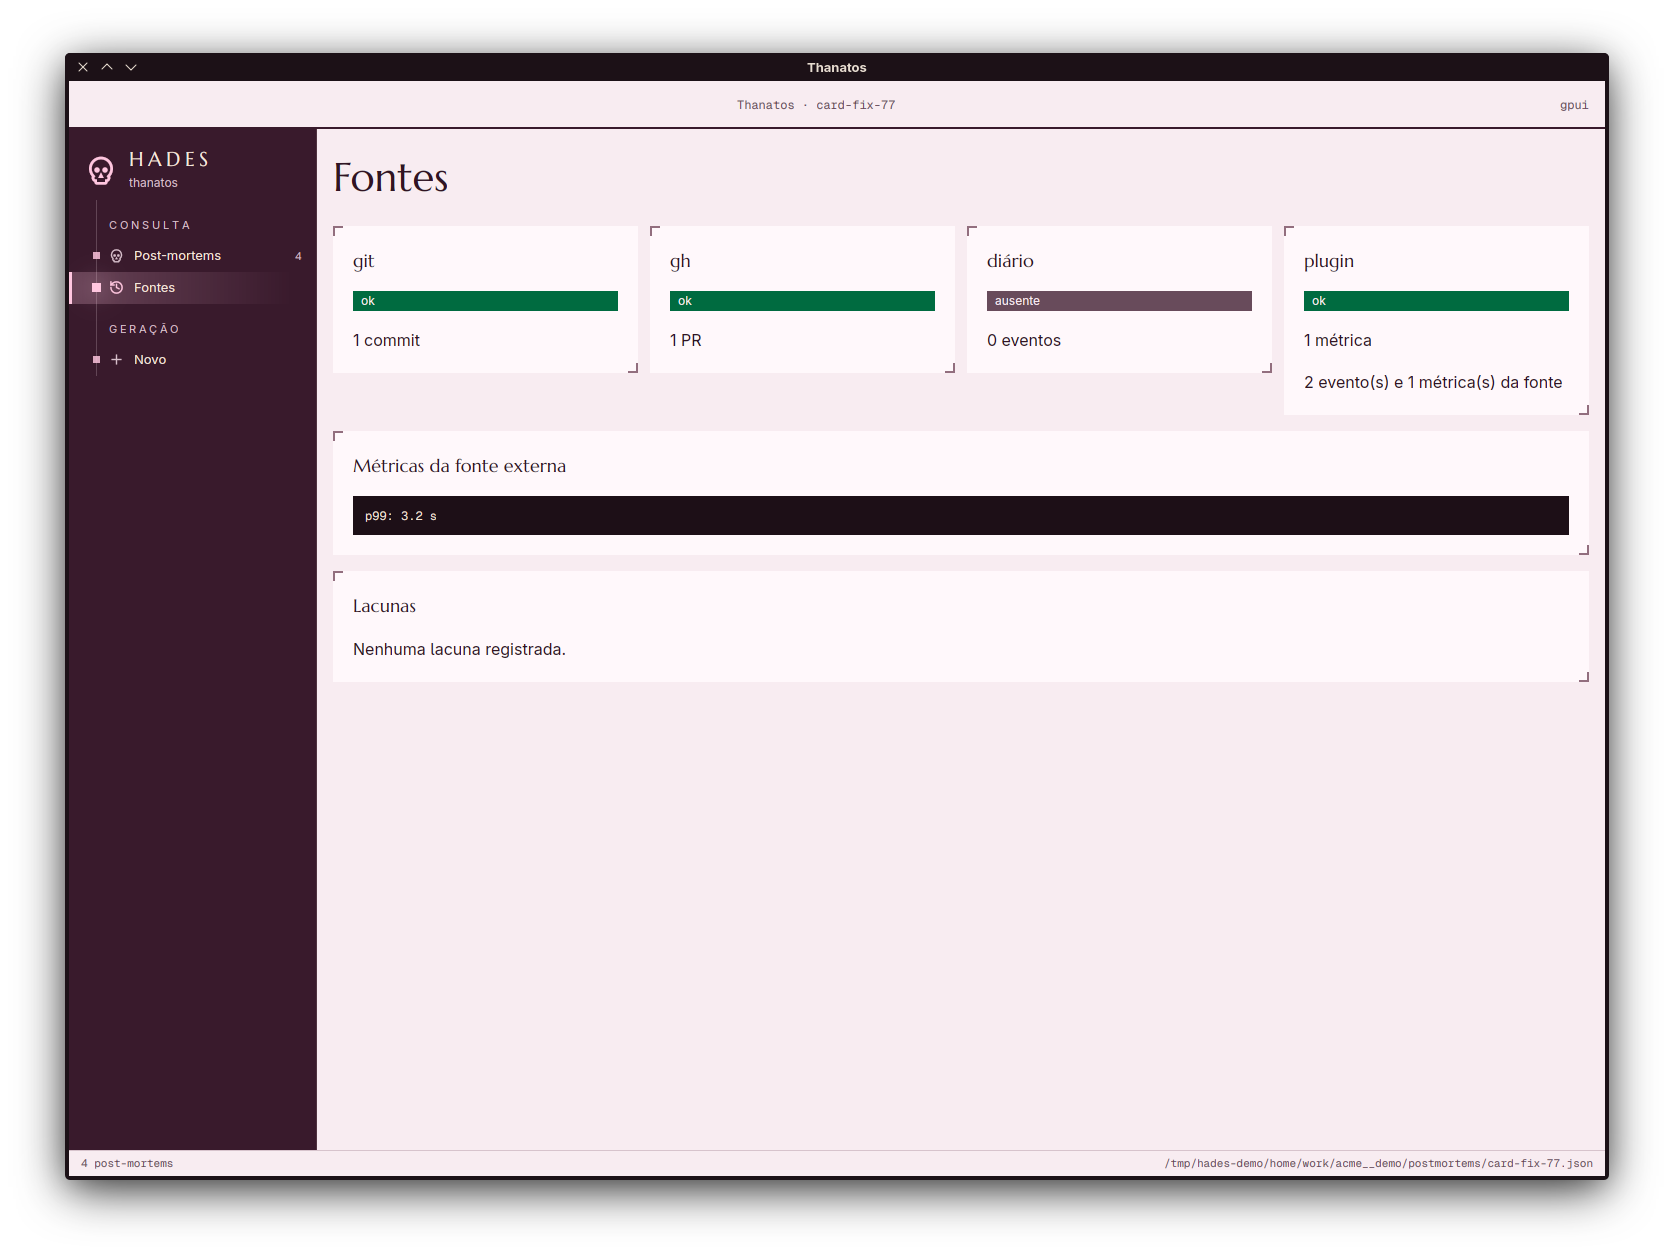
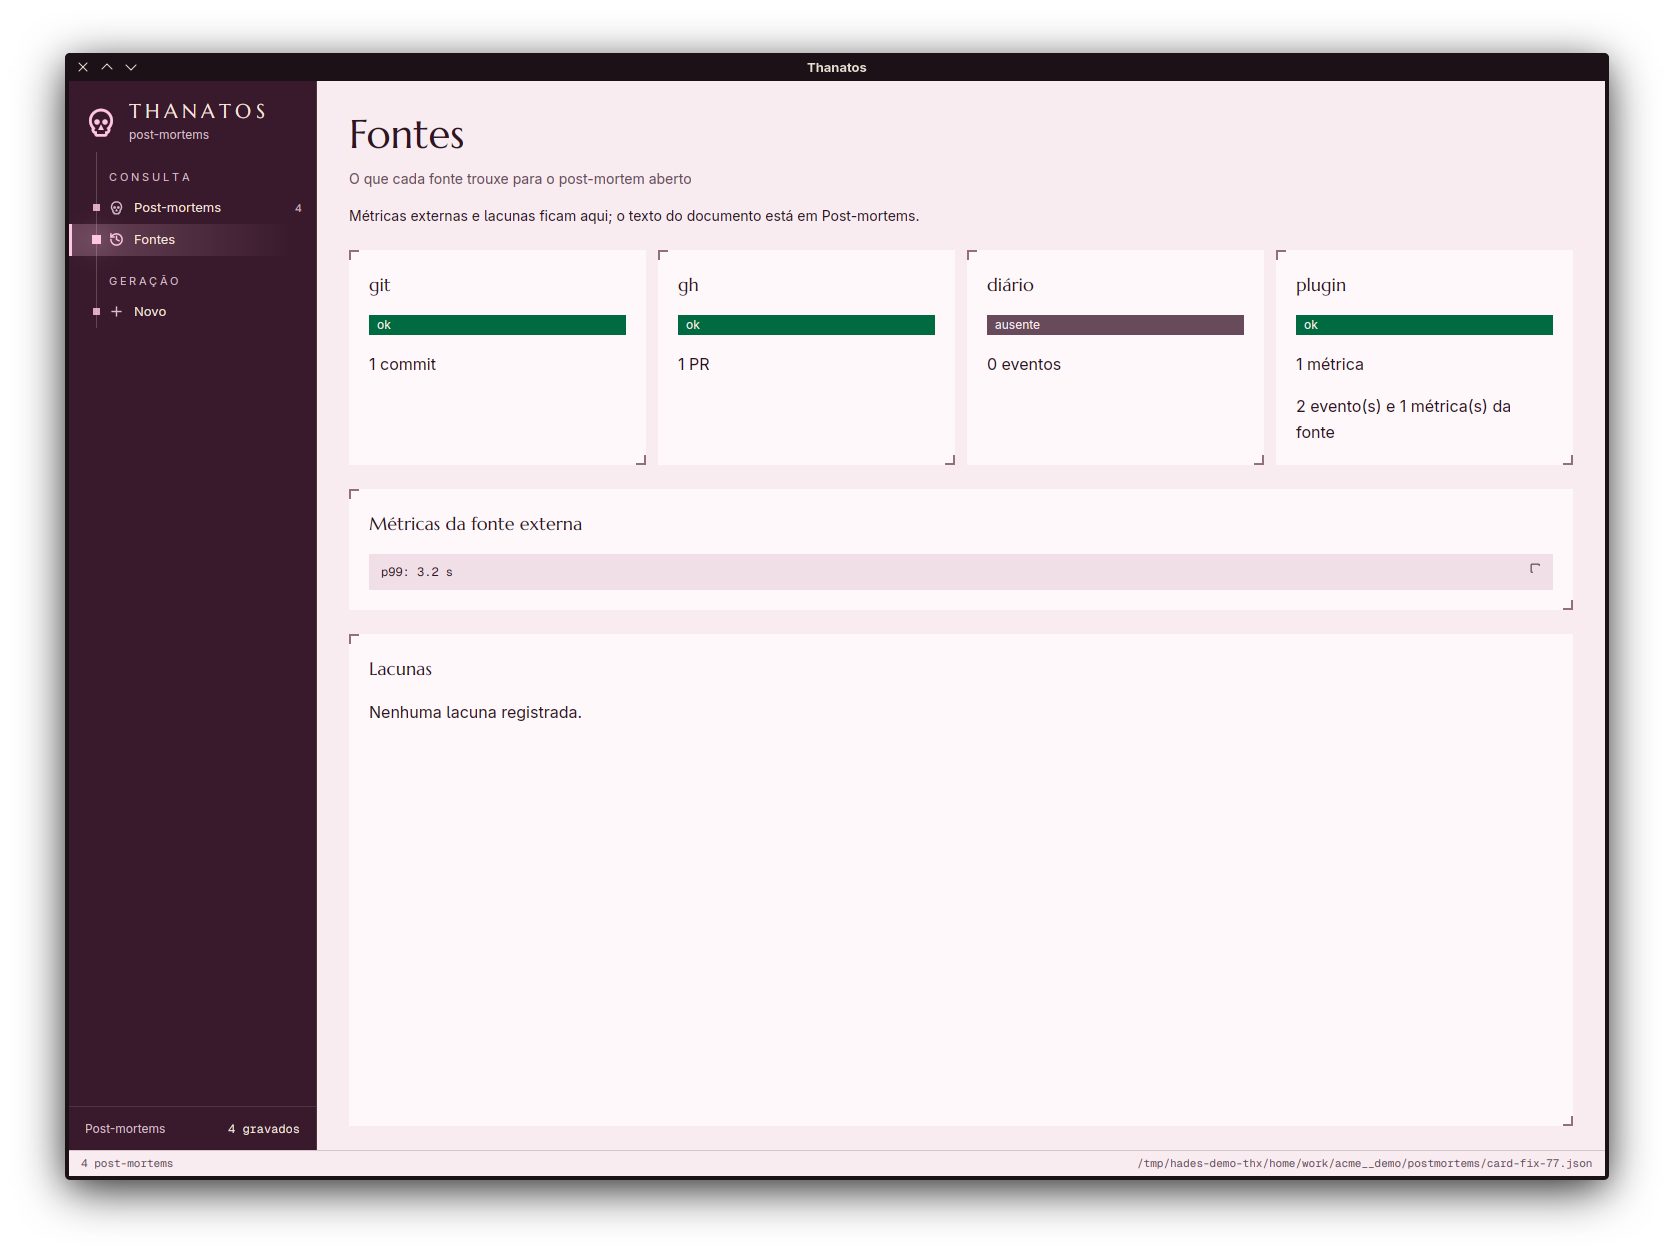
docs: capturas do thanatos no Hades-UI v0.2.2 sem a barra superior

diff --git a/crates/thanatos-app/src/view.rs b/crates/thanatos-app/src/view.rs
@@ -11,9 +11,9 @@ use gpui::{
 use gpui_component::input::{InputEvent, InputState};
 use hades_core::Env;
 use hades_ui::components::{
-    Align, Button, Card, Confirm, CopyButton, DataTable, EmptyState, MarkdownView, PageHeader,
-    Rail, RailBrand, RailGroup, RailItem, Segmented, Skeleton, Spinner, StatusBadge, StatusBar,
-    RailStat, Page, TermBlock, TextField, Timeline,
+    Align, Button, Card, Confirm, CopyButton, DataTable, EmptyState, MarkdownView, Page,
+    PageHeader, Rail, RailBrand, RailGroup, RailItem, RailStat, Segmented, Skeleton, Spinner,
+    StatusBadge, StatusBar, TermBlock, TextField, Timeline,
 };
 use hades_ui::icons::IconName;
 use hades_ui::tokens::space;
@@ -609,7 +609,9 @@ impl ThanatosView {
         let Some(doc) = &self.documento else {
             return coluna.child(
                 EmptyState::new("Nenhum post-mortem aberto")
-                    .hint("Escolha um post-mortem em Post-mortems para ver o que cada fonte trouxe.")
+                    .hint(
+                        "Escolha um post-mortem em Post-mortems para ver o que cada fonte trouxe.",
+                    )
                     .fill(),
             );
         };
@@ -623,7 +625,7 @@ impl ThanatosView {
             if let Some(nota) = c.nota {
                 cartao = cartao.child(nota);
             }
-            cartoes = cartoes.child(div().flex_1().child(cartao));
+            cartoes = cartoes.child(div().flex().flex_col().flex_1().child(cartao.fill()));
         }
         let mut coluna = coluna.child(cartoes);
         let metricas = vm::linhas_das_metricas(pm);
@@ -634,7 +636,7 @@ impl ThanatosView {
             }
             coluna = coluna.child(Card::new().title("Métricas da fonte externa").child(bloco));
         }
-        let mut lacunas = Card::new().title("Lacunas");
+        let mut lacunas = Card::new().title("Lacunas").fill();
         if pm.gaps.is_empty() {
             lacunas = lacunas.child("Nenhuma lacuna registrada.");
         }
@@ -696,14 +698,7 @@ impl Render for ThanatosView {
             .flex_col()
             .bg(p.bg)
             .text_color(p.fg)
-            .child(
-                div()
-                    .flex_1()
-                    .flex()
-                    .min_h_0()
-                    .child(rail)
-                    .child(corpo),
-            )
+            .child(div().flex_1().flex().min_h_0().child(rail).child(corpo))
             .child(StatusBar::new(esquerda, direita))
             .children(confirmar)
     }
